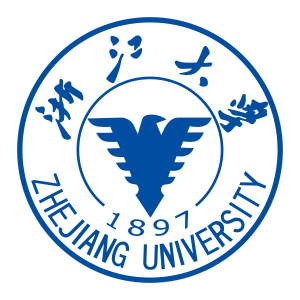
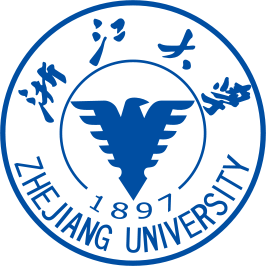
okk

diff --git a/_layouts/homepage.html b/_layouts/homepage.html
@@ -54,10 +54,12 @@
         <br>
         <br>
         {% if site.zju %}
-        <a class="image university"><img src="{{site.zju}}" alt="Zhejiang University" onContextMenu="return false" /></a>
-        {% endif %}
+        
+          <a><img class="image university" src="{{site.zju}}" alt="Zhejiang University" onContextMenu="return false" /></a>
+          {% endif %}
 
-        <a class="image university"><img src="{{site.sysu}}" alt="SUN-YAT SEN University" onContextMenu="return false" /></a>
+          <a><img class="image university" src="{{site.sysu}}" alt="SUN-YAT SEN University" onContextMenu="return false" /></a>
+        
 
         {% endif %}
         

diff --git a/_sass/minimal-light.scss b/_sass/minimal-light.scss
@@ -87,8 +87,8 @@ papertitle {
       border-radius:10px
     }
     .image.university {
-      width:40;
-      height:40;
+      width:80px;
+      height:80px;
       padding:5px; 
     }
 
